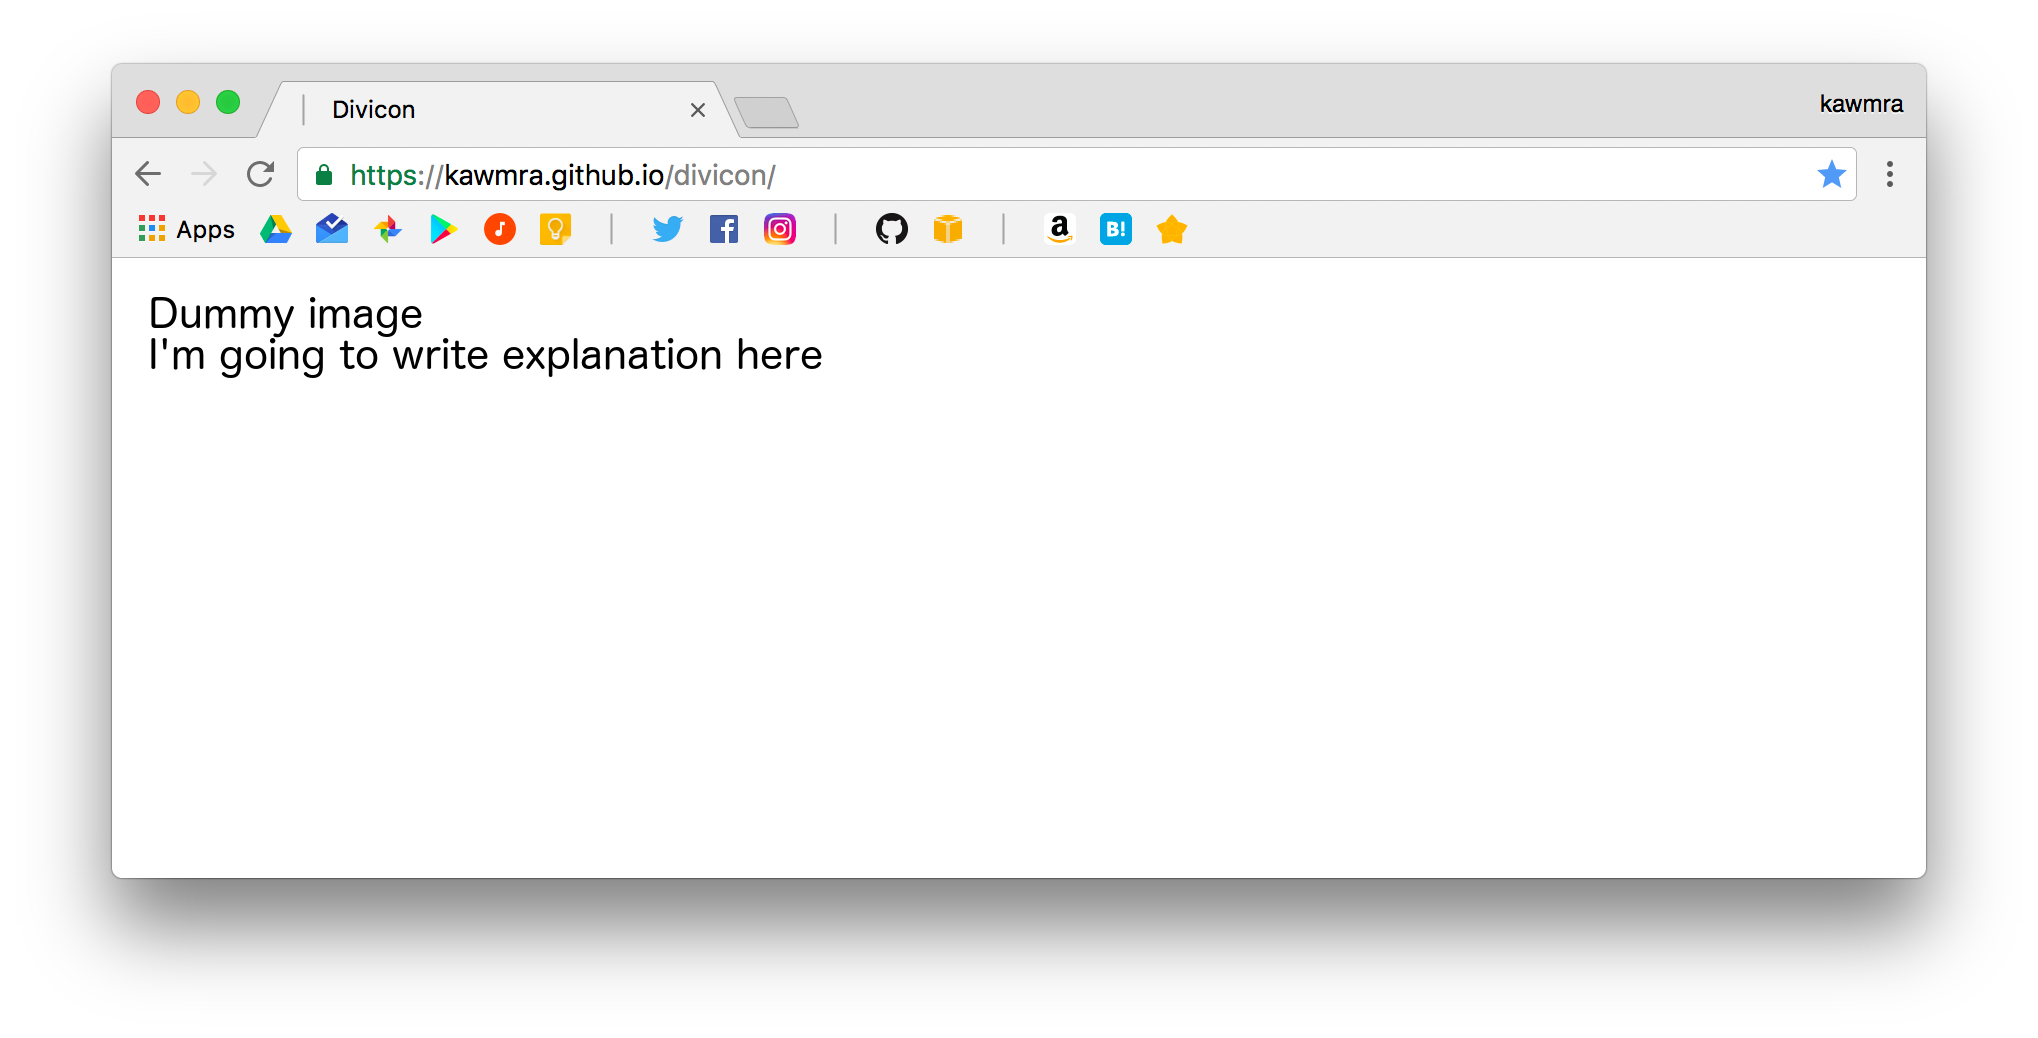
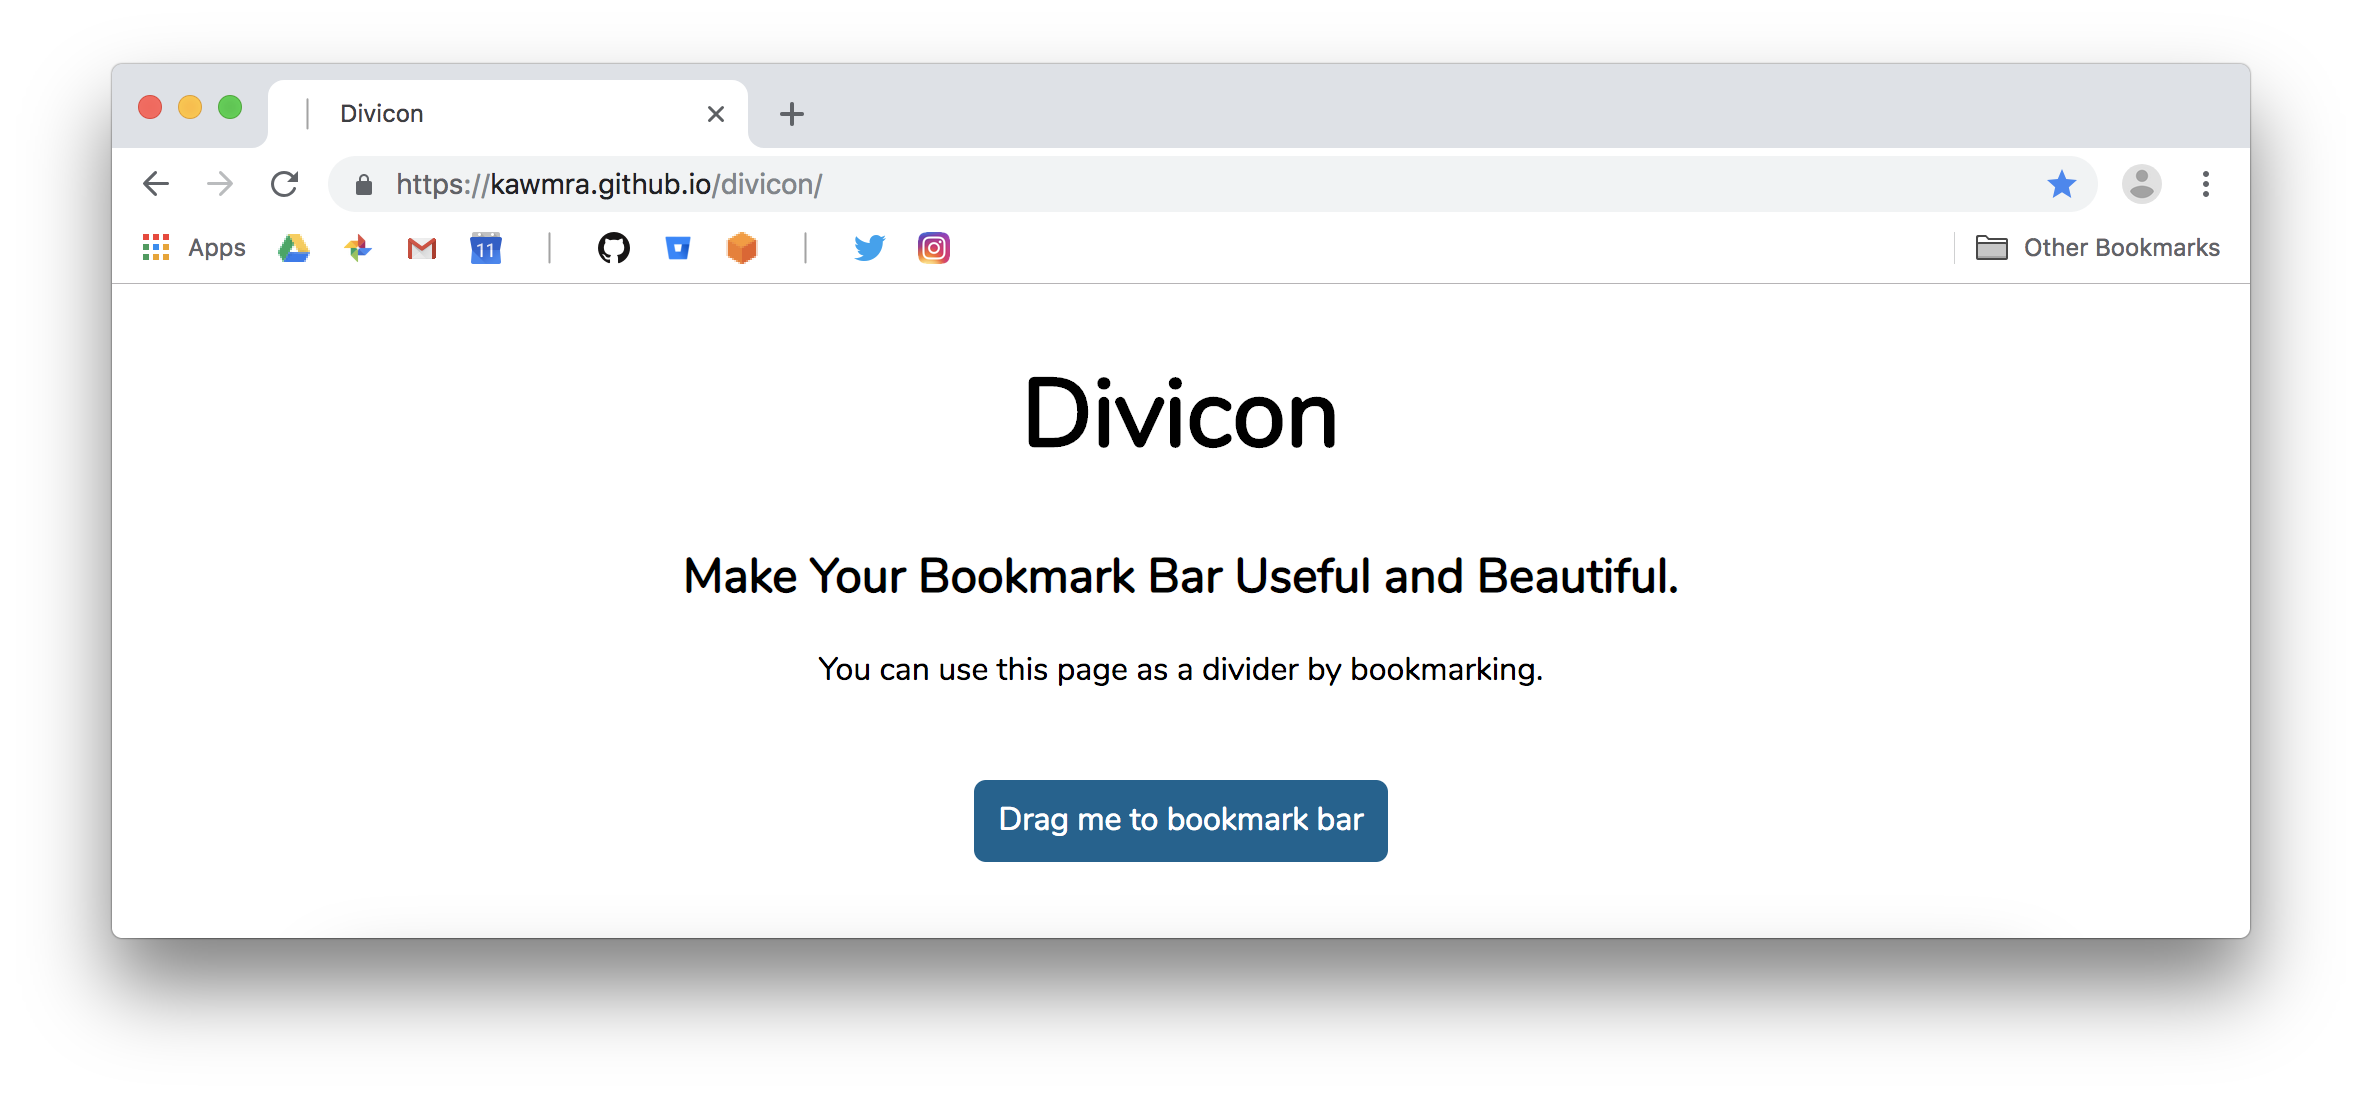
Update texts and change readme image

diff --git a/index.html b/index.html
@@ -10,14 +10,11 @@
 <body>
 	<div id="contents">
 		<h1>Divicon</h1>
-		<h2>Make Your Bookmark Bar Useful and Beautiful.</h2>
+		<h2>Make your bookmark bar useful and beautiful.</h2>
 		<p>You can use this page as a divider by bookmarking.</p>
 		<p class="dragme">
 			<a href id="dragme"></a>
 		</p>
-		<div class="center">
-			<img src="./res/image.png" class="screenshot">
-		</div>
 	</div>
 </body>
 </html>

diff --git a/README.md b/README.md
@@ -1,7 +1,7 @@
-# divicon
+# Divicon
 
 ![](res/image.png)
 
-Make Your Bookmark Bar Useful and Beautiful.
+Make your bookmark bar useful and beautiful.
 
 https://kawmra.github.io/divicon/
